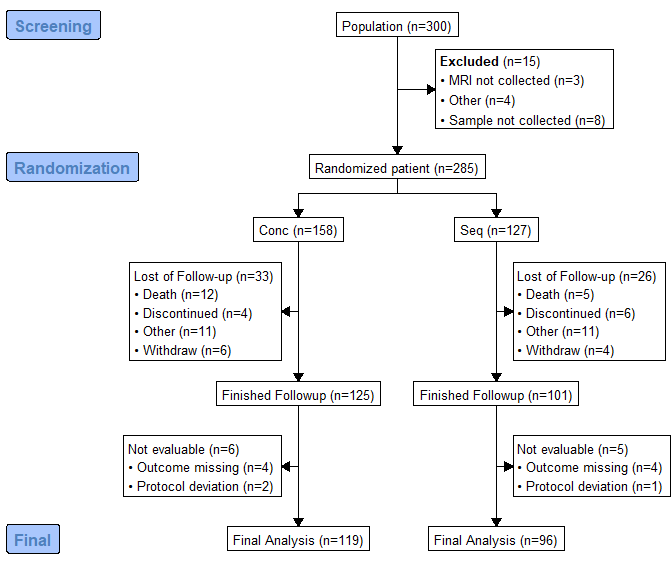
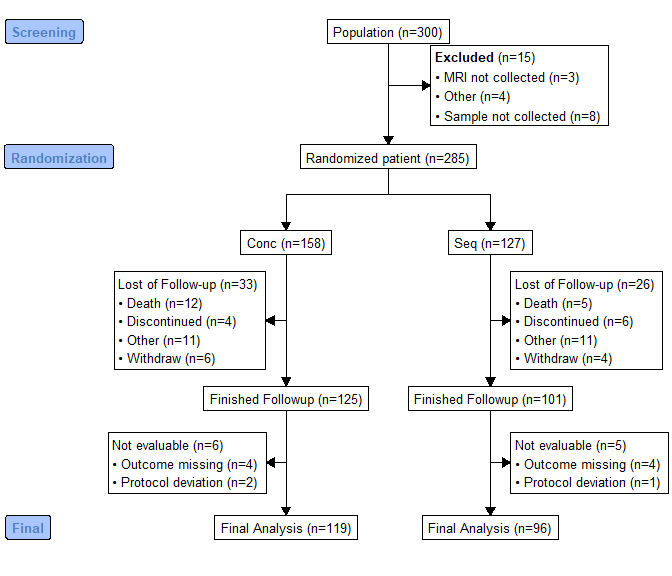
Update readme

diff --git a/README.md b/README.md
@@ -94,7 +94,6 @@ out <- consort_plot(data = df,
              allocation = "arm",
              labels = c("1" = "Screening", "2" = "Randomization",
                         "5" = "Final"))
-#> Please define this via `set_consort_defaults(txt_gp = gpar(cex = ...))` instead.
 
 plot(out)
 ```